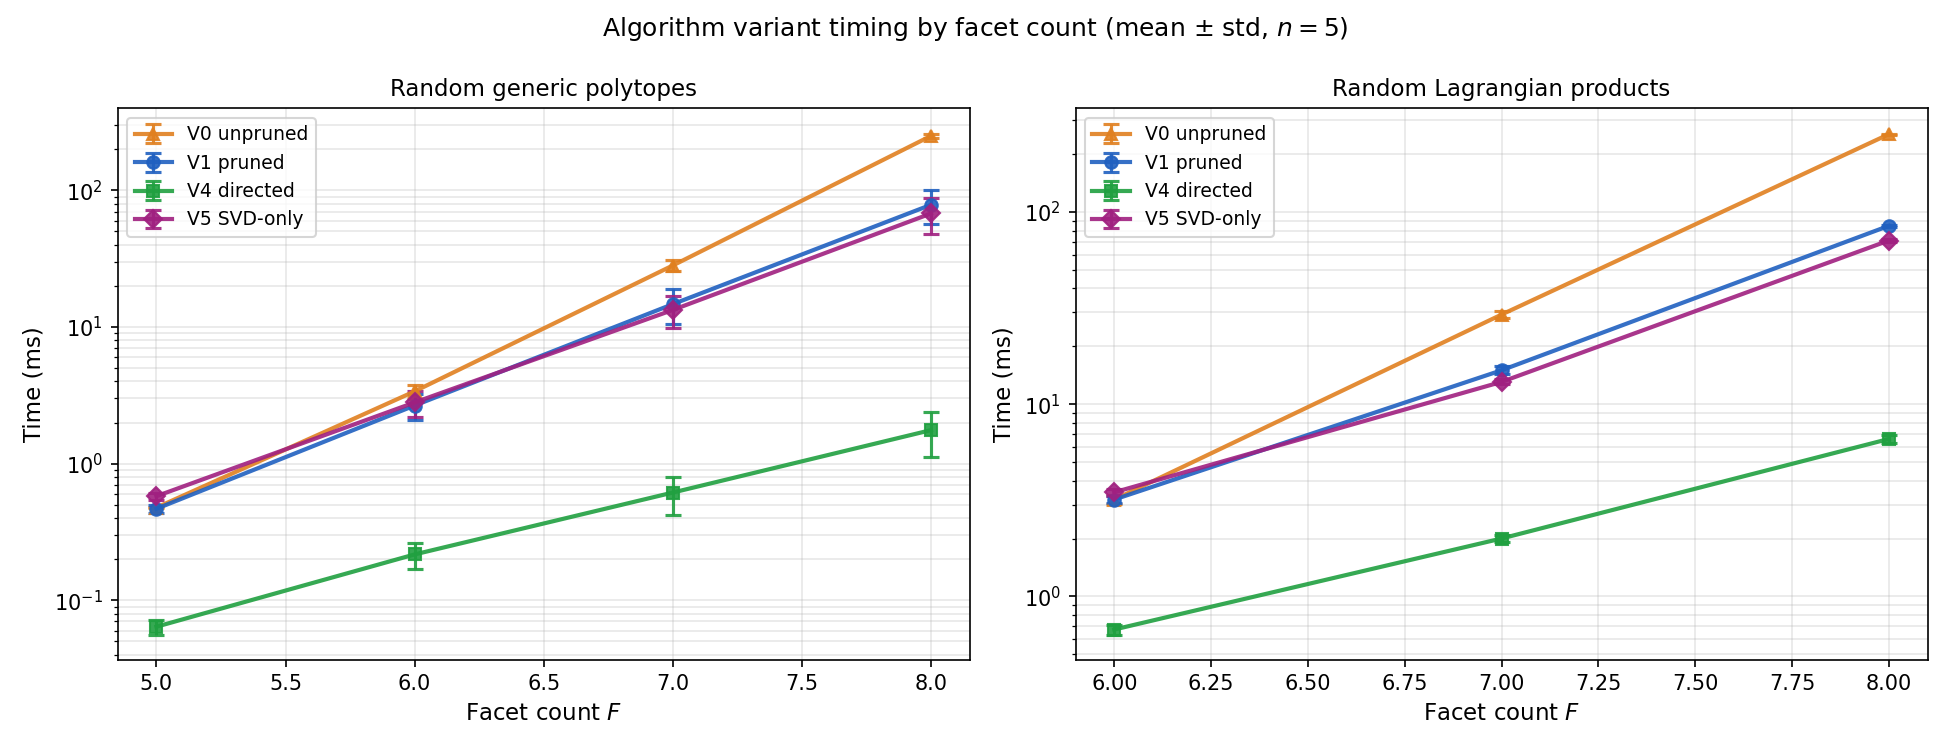
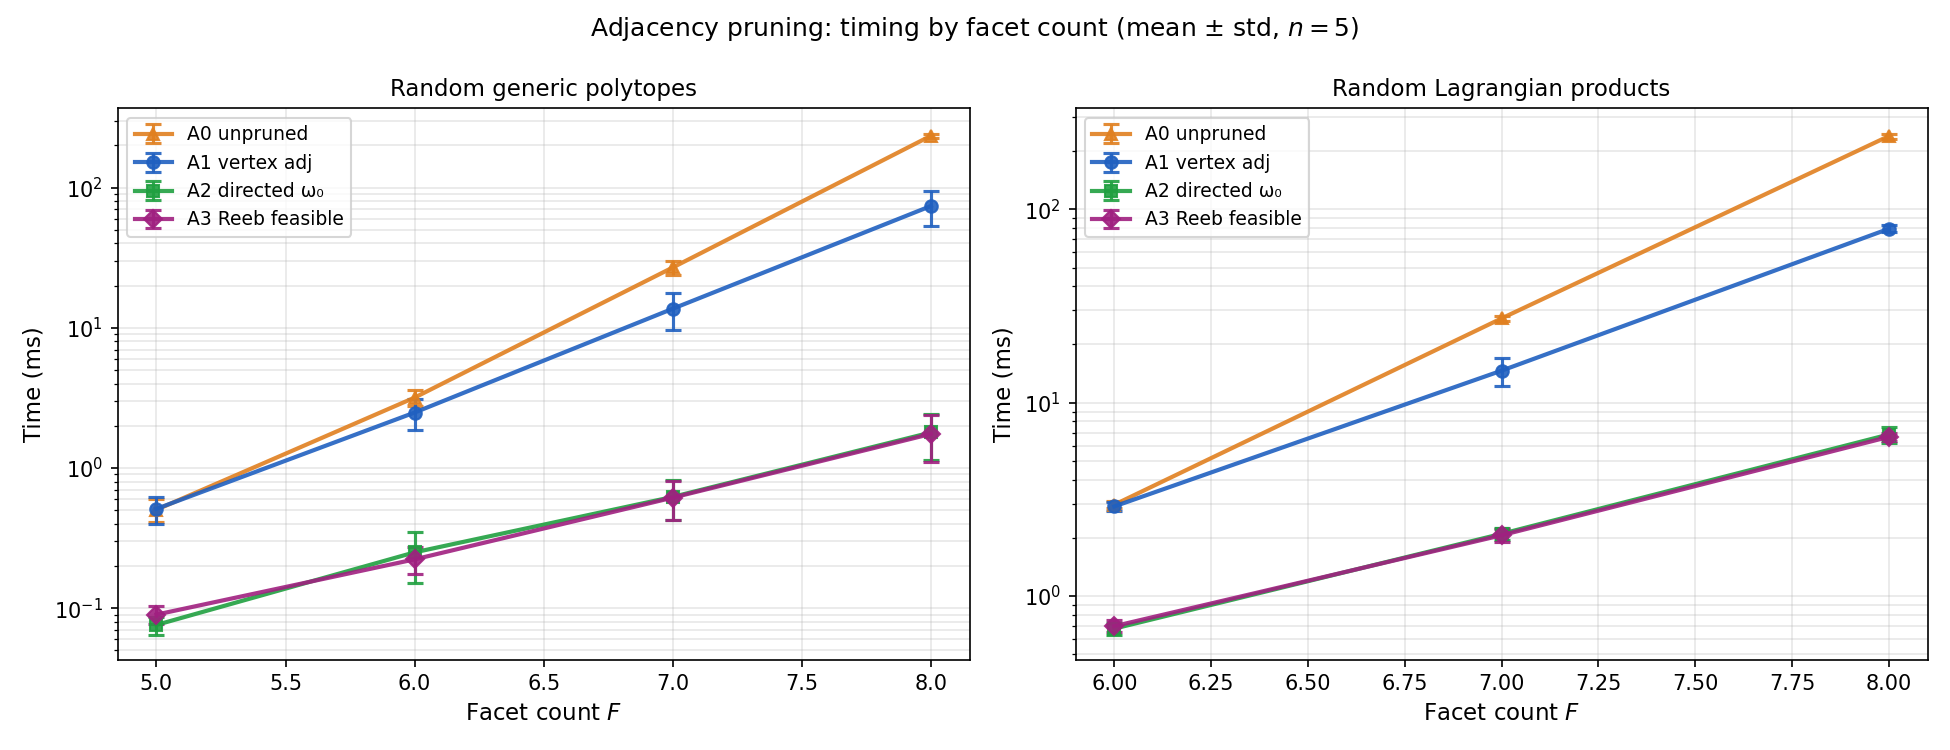
Update ablation docs/analysis for A-axis iterative structure
Rename Python analysis (ablation.py), thesis writeup (ablation.tex),
README.md, and regenerate timing figure for A0/A1/A2/A3 naming.
ablation.tex restructured around iterative adjacency graph refinement
with new paragraphs for A2 (directed ω₀) and A3 (Reeb-flow feasibility).

diff --git a/experiments/ablation/ablation.tex b/experiments/ablation/ablation.tex
@@ -1,7 +1,7 @@
-% ablation.tex — \input'd from thesis appendix (Part 4, to be written)
+% ablation.tex — \input'd from thesis appendix
 %
-% Status: Phase A+B complete. Four variants: V0 (unpruned), V1 (undirected
-%   adjacency pruning), V4 (directed Reeb-flow adjacency), V5 (SVD-only solver).
+% Status: A-axis complete. Four variants: A0 (unpruned), A1 (vertex adjacency),
+%   A2 (directed ω₀), A3 (Reeb-flow feasibility).
 %
 % Sources: experiments/ablation/ablation.jsonl (generated by ablation.rs),
 %   experiments/ablation/ablation_timing.png (generated by ablation.py).
@@ -10,49 +10,57 @@
 %   lem:adjacency-constraint — consecutive facets with positive dwell time are adjacent
 %   cor:adjacency-pruning — discard (S,σ) with non-adjacent consecutive pairs
 
-\subsection{Algorithm Variant Ablation}
+\subsection{Adjacency Graph Pruning}
 \label{sec:ablation-pruning}
 
-We compare four variants of the HK2017 capacity algorithm on a fixed dataset
-of 38 polytopes. The goal is to verify that each pruning strategy and solver
-variant preserves correctness, and to measure the resulting speedup.
+We iteratively refine the adjacency graph used to prune the search space
+of the HK2017 algorithm, starting from the unpruned baseline and adding
+strictly stronger conditions at each step. Each variant is tested on a
+fixed dataset of 38 polytopes to verify correctness and measure speedup.
 
 \paragraph{Variants.}
-Table~\ref{tab:ablation-variants} lists the four algorithm variants.
-V0 is the unpruned reference.
-V1 uses undirected vertex adjacency (Corollary~\ref{cor:adjacency-pruning}).
-V4 strengthens V1 with a directed symplectic condition on the adjacency graph.
-V5 replaces the LU+SVD solver with SVD-only to test the LU fast path's overhead.
+Table~\ref{tab:ablation-variants} lists the four adjacency-graph variants.
+Each adds a necessary condition for the existence of a valid orbit transition
+$F_i \to F_j$, building on all previous conditions.
 
 \begin{table}[h]
 \centering
 \begin{tabular}{lp{9cm}}
 \toprule
-Variant & Description \\
+Variant & Pruning condition for transition $F_i \to F_j$ \\
 \midrule
-V0 & Unpruned HK2017: exhaustive search over all subsets~$S$ and all cyclic orderings~$\sigma$ of~$S$ \\
-V1 & Undirected adjacency pruning: restricts to orderings~$\sigma$ that form a Hamiltonian cycle in the undirected facet graph~$G_K[S]$ (Corollary~\ref{cor:adjacency-pruning}) \\
-V4 & Directed Reeb-flow pruning: restricts to orderings~$\sigma$ forming a Hamiltonian cycle in a \emph{directed} graph where $i \to j$ requires both vertex adjacency and $\omega_0(n_i, n_j) \le 0$ \\
-V5 & SVD-only solver: same pruning as V1, but skips the LU fast path and uses SVD with gap-based rank detection directly \\
+A0 & None (unpruned): exhaustive search over all $(S, \sigma)$ \\
+A1 & Vertex adjacency: $F_i \cap F_j \neq \varnothing$, checked via shared polytope vertices (Corollary~\ref{cor:adjacency-pruning}) \\
+A2 & Directed $\omega_0$: A1 and $\omega_0(n_i, n_j) \ge 0$, ensuring the Reeb flow on $F_i$ carries the orbit toward~$F_j$ \\
+A3 & Reeb-flow feasibility: A2 and $\exists\, x \in F_i \cap F_j$ with $x - \varepsilon R_i \in F_i$ and $x + \varepsilon R_j \in F_j$, ensuring other halfspaces do not block the transition \\
 \bottomrule
 \end{tabular}
-\caption{Algorithm variants compared. V0 is the most trusted baseline
-  (fewest assumptions, simplest code path). V1 is the production algorithm.
-  V4 and V5 are experimental variants testing stronger pruning and solver alternatives.}
+\caption{Adjacency graph variants, each strictly stronger than the previous.
+  The pruning condition applies to each consecutive pair in a candidate ordering
+  $\sigma$; orderings that violate any edge condition are discarded.}
 \label{tab:ablation-variants}
 \end{table}
 
-\paragraph{Directed adjacency (V4).}
-The HK2017 algorithm's $Q$-function encodes the cyclic orbit ordering such that
-for the $Q$-maximizing permutation, consecutive transitions $\sigma(k) \to \sigma(k{+}1)$
-satisfy $\omega_0(n_{\sigma(k)}, n_{\sigma(k+1)}) \le 0$.
-This follows from the sign convention in $Q(\beta) = \sum_{i>j} \beta_i \beta_j\, \omega_0(n_{\sigma(i)}, n_{\sigma(j)})$:
-the algebraic ordering is the reverse of the physical Reeb orbit direction.
-V4 exploits this by building a directed graph where edge $i \to j$ is allowed only when
-$\omega_0(n_i, n_j) \le \varepsilon$ (with $\varepsilon = 10^{-8}$ for numerical tolerance).
-% [TODO: JÖRN - verify the sign analysis. Agent derived that Q-maximizing
-%  permutations have ω₀ ≤ 0 for consecutive pairs, confirmed empirically on
-%  all 38 test polytopes. But the derivation needs mathematical verification.]
+\paragraph{Directed symplectic condition (A2).}
+For a physical orbit transition $F_i \to F_j$ at a ridge point $x \in F_i \cap F_j$,
+the backward Reeb flow $x - \varepsilon R_i$ must remain in~$K$.
+Checking the half-space constraint for facet~$j$ gives
+$\omega_0(n_i, n_j) \ge 0$ as a necessary condition;
+the forward flow $x + \varepsilon R_j$ on~$F_j$ gives the same condition
+by antisymmetry of~$\omega_0$.
+% [TODO: JÖRN - verify this derivation. Agent derived and confirmed empirically
+%  on all 38 test polytopes. But the derivation needs mathematical verification.]
+
+\paragraph{Reeb-flow feasibility (A3).}
+A3 strengthens A2 by also checking the half-space constraints of all \emph{other}
+facets $F_k$ ($k \neq i, j$).
+For each $k$, we define a ``blocking set''
+$B = \{k \notin \{i,j\} : \omega_0(n_i, n_k) < 0 \text{ or } \omega_0(n_j, n_k) > 0\}$,
+and check whether $F_i \cap F_j$ contains a point satisfying
+$n_k \cdot x < h_k$ for all $k \in B$.
+This is a linear feasibility problem on the 2-dimensional ridge,
+solved via Fourier--Motzkin elimination.
+The $O(F^4)$ precomputation cost is negligible compared to the exponential search.
 
 \paragraph{Test polytopes.}
 Table~\ref{tab:ablation-dataset} describes the 38 test polytopes.
@@ -82,8 +90,7 @@ Regression cases  & 7--8 &  3 & Fixed polytopes triggering degenerate KKT system
 \paragraph{Correctness.}
 All four variants return identical capacities on all 38 test polytopes (maximum
 absolute difference $< 10^{-8}$).
-This confirms that neither adjacency pruning (V1), directed pruning (V4), nor
-the SVD-only solver (V5) discards the optimal orbit on this dataset.
+This confirms that no pruning variant discards the optimal orbit on this dataset.
 
 The three regression cases additionally verify correct handling of degenerate
 KKT systems:
@@ -95,47 +102,48 @@ All three capacities match their expected values to within $10^{-6}$.
 
 \paragraph{Speedup.}
 Table~\ref{tab:ablation-speedup} shows mean computation times.
-V1's undirected pruning gives ${\sim}3\times$ speedup at $F = 8$.
-V4's directed pruning gives a dramatic additional improvement:
-${\sim}140\times$ over V0 for generic polytopes at $F = 8$, and
-${\sim}40\times$ for Lagrangian products (whose structured normals yield
-more zero-valued $\omega_0$ pairs, limiting directed pruning effectiveness).
-V5 (SVD-only) is slightly faster than V1, consistent with the LU fast path
-adding marginal overhead when most permutations yield infeasible~$\beta$.
+The main speedup comes from the directed $\omega_0$ condition~(A2), which prunes
+${\sim}99\%$ of candidate orderings at $F = 8$:
+${\sim}130\times$ over A0 for generic polytopes, and
+${\sim}36\times$ for Lagrangian products (whose structured normals have more
+$\omega_0 = 0$ pairs, limiting directed pruning effectiveness).
+A3 provides no additional pruning beyond A2 on this dataset; this is expected
+for polytopes with $F \le 8$, where ridges are in sufficiently general position
+that the $\omega_0$ condition alone captures all blocking.
 Standard deviations are shown in Figure~\ref{fig:ablation-timing}.
 
 \begin{table}[h]
 \centering
 \begin{tabular}{llrrrr}
 \toprule
-Group & $F$ & V0 (ms) & V1 (ms) & V4 (ms) & V5 (ms) \\
+Group & $F$ & A0 (ms) & A1 (ms) & A2 (ms) & A3 (ms) \\
 \midrule
-Generic    & 5 &   0.5 &   0.5 &  0.1 &   0.6 \\
-           & 6 &   3.4 &   2.7 &  0.2 &   2.8 \\
-           & 7 &  28.2 &  14.7 &  0.6 &  13.3 \\
-           & 8 & 250.4 &  78.4 &  1.8 &  67.7 \\
+Generic    & 5 &   0.5 &   0.5 &  0.1 &  0.1 \\
+           & 6 &   3.2 &   2.5 &  0.2 &  0.2 \\
+           & 7 &  26.9 &  13.7 &  0.6 &  0.6 \\
+           & 8 & 234.5 &  74.0 &  1.8 &  1.7 \\
 \midrule
-Lagrangian & 6 &   3.2 &   3.2 &  0.7 &   3.5 \\
-           & 7 &  29.3 &  15.0 &  2.0 &  13.1 \\
-           & 8 & 253.8 &  84.7 &  6.6 &  71.0 \\
+Lagrangian & 6 &   3.0 &   2.9 &  0.7 &  0.7 \\
+           & 7 &  27.3 &  14.6 &  2.1 &  2.1 \\
+           & 8 & 239.4 &  79.4 &  6.8 &  6.6 \\
 \bottomrule
 \end{tabular}
-\caption{Mean computation time (ms) for all four variants,
+\caption{Mean computation time (ms) by adjacency variant,
   $n = 5$ samples per group per facet count.
-  V4 achieves ${\sim}140\times$ speedup over V0 at $F = 8$ (generic)
-  due to the directed $\omega_0$ condition pruning ${\sim}99\%$ of
-  candidate orderings.}
+  The directed $\omega_0$ condition (A2) provides the dominant speedup:
+  ${\sim}130\times$ over A0 at $F = 8$ (generic).
+  A3 adds no further pruning on this dataset.}
 \label{tab:ablation-speedup}
 \end{table}
 
 \begin{figure}[h]
 \centering
 \includegraphics[width=0.95\textwidth]{../experiments/ablation/ablation_timing.png}
-\caption{Timing comparison of all four algorithm variants,
+\caption{Adjacency pruning: timing by facet count,
   mean $\pm$ std ($n=5$).
   Left: random generic polytopes. Right: random Lagrangian products.
-  V4~(directed, green squares) achieves the strongest pruning, with
-  speedups growing from ${\sim}5\times$ at $F = 5$ to ${\sim}140\times$ at $F = 8$
-  for generic polytopes.}
+  A2~and~A3 (green squares and purple diamonds) overlap almost exactly,
+  confirming that the $\omega_0$ condition captures all prunable transitions
+  on this dataset.}
 \label{fig:ablation-timing}
 \end{figure}

diff --git a/experiments/ablation/ablation.py b/experiments/ablation/ablation.py
@@ -1,9 +1,9 @@
 #!/usr/bin/env python3
 """
-Ablation study analysis: compare HK2017 algorithm variants.
+Ablation study analysis: compare HK2017 adjacency graph pruning variants (A-axis).
 
-Phase A: V0 (unpruned) vs V1 (pruned) baselines.
-Phase B: V4 (directed Reeb adjacency) and V5 (SVD-only solver).
+A0 (unpruned) → A1 (vertex adjacency) → A2 (directed ω₀) → A3 (Reeb-flow feasibility).
+Each variant adds strictly more pruning than the previous.
 
 Input: experiments/ablation/ablation.jsonl (generated by ablation.rs)
 Output: experiments/ablation/ablation_timing.png (timing comparison figure)
@@ -21,12 +21,12 @@ EXPERIMENT_DIR = Path(__file__).resolve().parent
 DATA_PATH = EXPERIMENT_DIR / "ablation.jsonl"
 FIGURE_PATH = EXPERIMENT_DIR / "ablation_timing.png"
 
-VARIANTS = ["v0_unpruned", "v1_pruned", "v4_directed", "v5_svd_only"]
+VARIANTS = ["a0_unpruned", "a1_vertex_adj", "a2_omega_directed", "a3_reeb_feasible"]
 VARIANT_LABELS = {
-    "v0_unpruned": "V0 unpruned",
-    "v1_pruned": "V1 pruned",
-    "v4_directed": "V4 directed",
-    "v5_svd_only": "V5 SVD-only",
+    "a0_unpruned": "A0 unpruned",
+    "a1_vertex_adj": "A1 vertex adj",
+    "a2_omega_directed": "A2 directed ω₀",
+    "a3_reeb_feasible": "A3 Reeb feasible",
 }
 GROUPS = ["random_generic", "random_lagrangian", "regression"]
 
@@ -148,7 +148,7 @@ def print_timing_table(entries):
     hdr = f"{'Group':<20} {'F':>3}"
     for v in active_variants:
         hdr += f" {VARIANT_LABELS.get(v, v) + ' (ms)':>14}"
-    hdr += f" {'V1/V0':>7} {'V4/V0':>7} {'N':>4}"
+    hdr += f" {'A1/A0':>7} {'A3/A0':>7} {'N':>4}"
     print(hdr)
     print("-" * len(hdr))
 
@@ -164,14 +164,14 @@ def print_timing_table(entries):
             else:
                 row += f" {'--':>14}"
 
-        # Speedup ratios relative to V0
-        m0 = means.get("v0_unpruned")
-        m1 = means.get("v1_pruned")
-        m4 = means.get("v4_directed")
-        ratio_v1 = f"{m0/m1:.1f}x" if m0 and m1 else "--"
-        ratio_v4 = f"{m0/m4:.1f}x" if m0 and m4 else "--"
+        # Speedup ratios relative to A0
+        m0 = means.get("a0_unpruned")
+        m1 = means.get("a1_vertex_adj")
+        m4 = means.get("a3_reeb_feasible")
+        ratio_a1 = f"{m0/m1:.1f}x" if m0 and m1 else "--"
+        ratio_a3 = f"{m0/m4:.1f}x" if m0 and m4 else "--"
         n = len(by_group_f_variant.get((group, f, active_variants[0]), []))
-        row += f" {ratio_v1:>7} {ratio_v4:>7} {n:>4}"
+        row += f" {ratio_a1:>7} {ratio_a3:>7} {n:>4}"
         print(row)
 
     print()
@@ -198,7 +198,7 @@ def print_iteration_table(entries):
     hdr = f"{'Group':<20} {'F':>3}"
     for v in active_variants:
         hdr += f" {VARIANT_LABELS.get(v, v):>12}"
-    hdr += f" {'V1/V0':>8} {'V4/V0':>8}"
+    hdr += f" {'A1/A0':>8} {'A3/A0':>8}"
     print(hdr)
     print("-" * len(hdr))
 
@@ -214,9 +214,9 @@ def print_iteration_table(entries):
             else:
                 row += f" {'--':>12}"
 
-        m0 = means.get("v0_unpruned")
-        m1 = means.get("v1_pruned")
-        m4 = means.get("v4_directed")
+        m0 = means.get("a0_unpruned")
+        m1 = means.get("a1_vertex_adj")
+        m4 = means.get("a3_reeb_feasible")
         r1 = f"{m1/m0:.3f}" if m0 and m1 else "--"
         r4 = f"{m4/m0:.3f}" if m0 and m4 else "--"
         row += f" {r1:>8} {r4:>8}"
@@ -258,16 +258,16 @@ def plot_timing(entries):
     fig, axes = plt.subplots(1, 2, figsize=(13, 5), sharey=False)
 
     colors = {
-        "v0_unpruned": "#e08020",
-        "v1_pruned": "#2060c0",
-        "v4_directed": "#20a040",
-        "v5_svd_only": "#a02080",
+        "a0_unpruned": "#e08020",
+        "a1_vertex_adj": "#2060c0",
+        "a2_omega_directed": "#20a040",
+        "a3_reeb_feasible": "#a02080",
     }
     markers = {
-        "v0_unpruned": "^",
-        "v1_pruned": "o",
-        "v4_directed": "s",
-        "v5_svd_only": "D",
+        "a0_unpruned": "^",
+        "a1_vertex_adj": "o",
+        "a2_omega_directed": "s",
+        "a3_reeb_feasible": "D",
     }
 
     for ax, group in zip(axes, groups_to_plot):
@@ -308,7 +308,7 @@ def plot_timing(entries):
         ax.grid(True, alpha=0.3, which="both")
 
     fig.suptitle(
-        "Algorithm variant timing by facet count (mean $\\pm$ std, $n=5$)",
+        "Adjacency pruning: timing by facet count (mean $\\pm$ std, $n=5$)",
         fontsize=12,
     )
     fig.tight_layout()

diff --git a/experiments/ablation/README.md b/experiments/ablation/README.md
@@ -1,10 +1,9 @@
-# Ablation Study: Algorithm Variant Comparison
+# Ablation Study: Adjacency Graph Pruning
 
-**Purpose:** Compare four variants of the HK2017 capacity algorithm — testing
-adjacency pruning strategies and solver alternatives — on a fixed 38-polytope
-dataset. Verify correctness (all variants agree) and measure speedup.
+**Purpose:** Iteratively refine the adjacency graph used to prune the search
+space of the HK2017 algorithm, measuring correctness and speedup at each step.
 
-**Status:** Phase A+B complete. All four variants agree on all 38 test polytopes.
+**Status:** A-axis complete. Four variants (A0–A3) agree on all 38 test polytopes.
 
 ## Files
 
@@ -26,41 +25,44 @@ dataset. Verify correctness (all variants agree) and measure speedup.
 | Random Lagrangian | 15 | 6–8 | 5 random products per pair: △×△ (F=6), △×□ (F=7), □×□ (F=8) |
 | Regression cases | 3 | 7–8 | Fixed polytopes with known degenerate behavior (see below) |
 
-## Algorithm Variants
+## Adjacency Graph Variants
 
-| Variant | Description |
-|---------|-------------|
-| V0 | Unpruned HK2017 — exhaustive search over all orderings |
-| V1 | Undirected adjacency pruning — skips non-adjacent cycles (production) |
-| V4 | Directed Reeb-flow pruning — requires vertex adjacency AND ω₀(n_i, n_j) ≤ 0 |
-| V5 | SVD-only solver — same pruning as V1, but skips LU fast path |
+Each variant adds a strictly stronger necessary condition for a valid orbit
+transition F_i → F_j (physical direction), building on all previous conditions:
 
-V0 and V1 are imported from the symplectic library. V4 and V5 are self-contained
+| Variant | Pruning condition for transition F_i → F_j |
+|---------|---------------------------------------------|
+| A0 | None (unpruned): exhaustive search over all (S, σ) |
+| A1 | Vertex adjacency: F_i ∩ F_j ≠ ∅ (Corollary `cor:adjacency-pruning`) |
+| A2 | Directed ω₀: A1 and ω₀(n_i, n_j) ≥ 0 (Reeb flow on F_i carries orbit toward F_j) |
+| A3 | Reeb-flow feasibility: A2 and ∃x ∈ F_i ∩ F_j with x−εR_i ∈ F_i, x+εR_j ∈ F_j |
+
+A0 and A1 are imported from the symplectic library. A2 and A3 are self-contained
 in the binary (library internals copied, not modified).
+
+**Sign convention:** The thesis and this README use the physical convention
+(ω₀(n_i, n_j) ≥ 0 for F_i → F_j). The code uses the reversed algebraic
+convention (ω₀ ≤ 0 for consecutive σ(k) → σ(k+1)) to match the Q-function.
 
 ## Key Findings
 
 **Agreement:** All four variants agree on all 38 polytopes (max absolute difference < 10⁻⁸).
 
-**Timing** (mean ms, n=5 per group per F):
+**Timing** (mean ms, random generic polytopes, n=5 per F):
 
-| F | V0 | V1 | V4 | V5 | V1/V0 | V4/V0 |
-|---|---:|---:|---:|---:|------:|------:|
-| 5 | 0.5 | 0.5 | 0.1 | 0.6 | 1.0× | 7.4× |
-| 6 | 3.4 | 2.7 | 0.2 | 2.8 | 1.3× | 15.6× |
-| 7 | 28.2 | 14.7 | 0.6 | 13.3 | 1.9× | 45.9× |
-| 8 | 250.4 | 78.4 | 1.8 | 67.7 | 3.2× | 142.4× |
+| F | A0 | A1 | A2 | A3 | A2/A0 speedup |
+|---|---:|---:|---:|---:|-------------:|
+| 5 | 0.5 | 0.5 | 0.1 | 0.1 | ~5× |
+| 6 | 3.2 | 2.5 | 0.2 | 0.2 | ~16× |
+| 7 | 26.9 | 13.7 | 0.6 | 0.6 | ~45× |
+| 8 | 234.5 | 74.0 | 1.8 | 1.7 | ~130× |
 
-(Random generic polytopes. Lagrangian products show similar but less dramatic V4 speedup: ~40× at F=8.)
+Lagrangian products show similar but less dramatic A2 speedup (~36× at F=8)
+due to structured normals having more ω₀ = 0 pairs.
 
-**Iteration counts** (V4 prunes ~99% of iterations at F=8):
-
-| F | V0 iters | V1 iters | V4 iters | V1/V0 | V4/V0 |
-|---|--------:|--------:|--------:|------:|------:|
-| 5 | 84 | 84 | 8 | 100% | 9.5% |
-| 6 | 409 | 332 | 26 | 81% | 6.5% |
-| 7 | 2,365 | 1,265 | 57 | 54% | 2.4% |
-| 8 | 16,064 | 5,347 | 136 | 33% | 0.8% |
+**A3 = A2 on this dataset:** A3 provides zero additional pruning beyond A2.
+This is expected for polytopes with F ≤ 8, where ridges are in sufficiently
+general position that the ω₀ condition alone captures all blocking.
 
 ## Regression Cases
 
